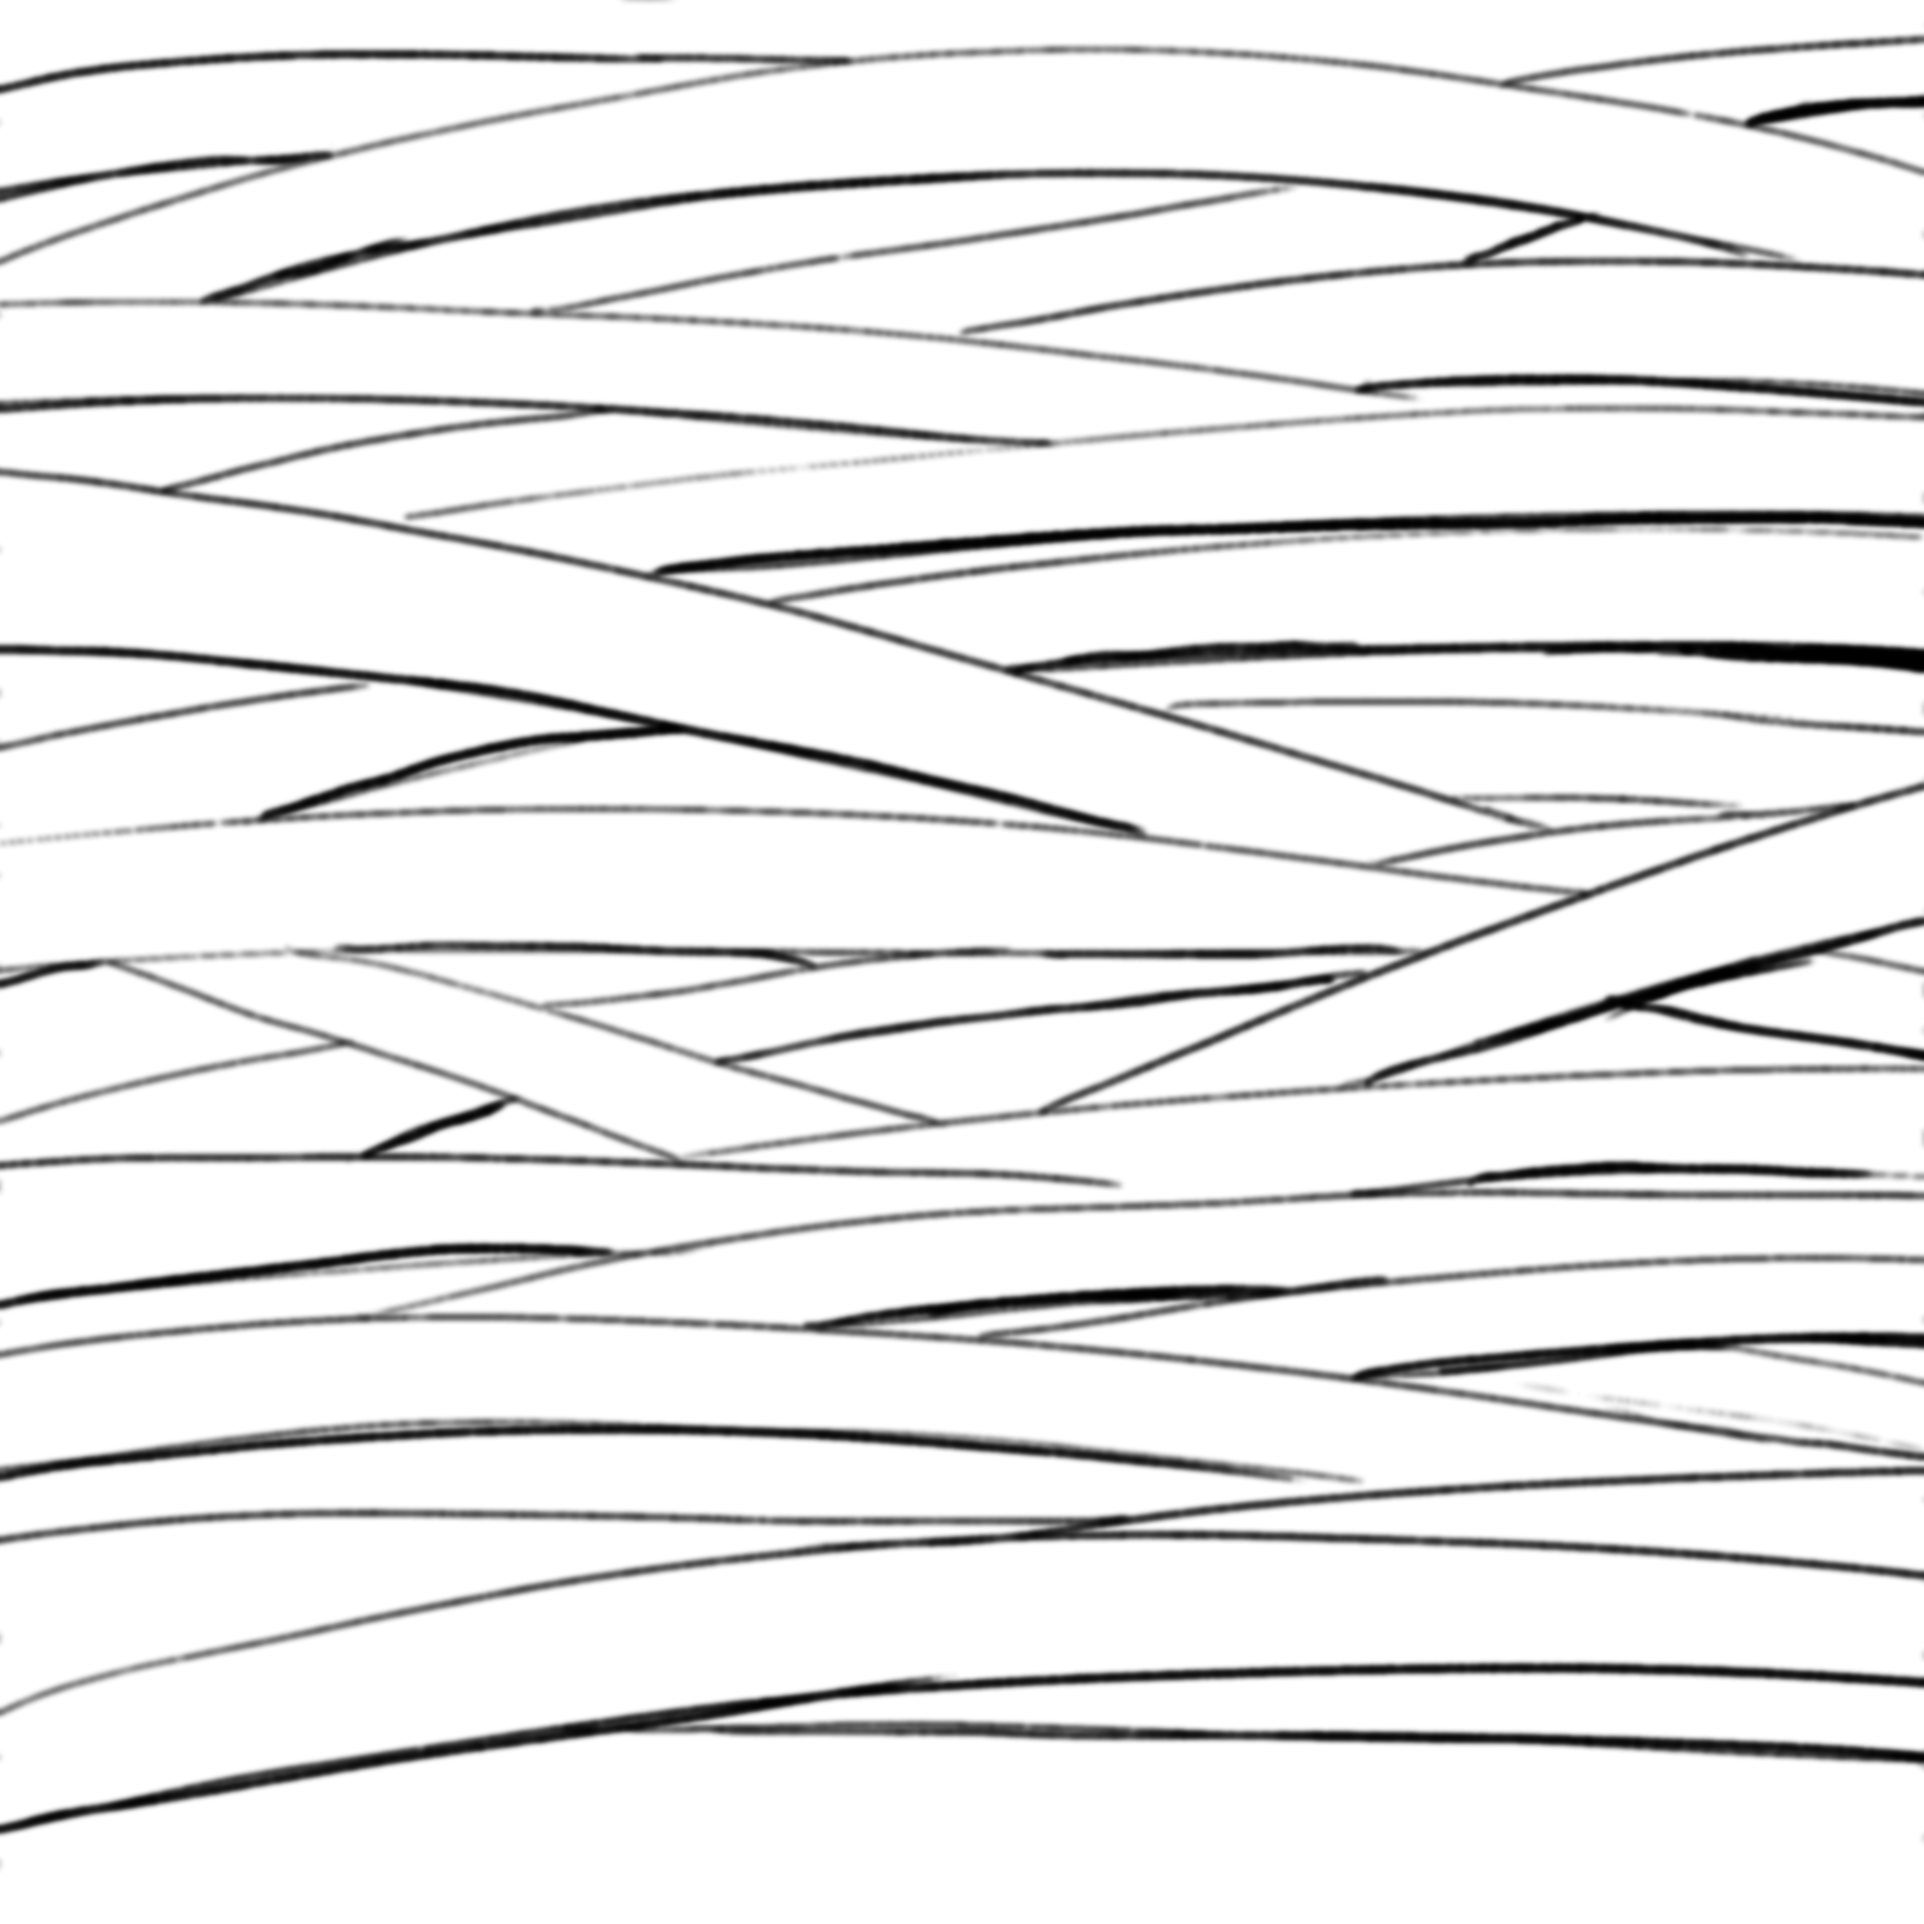
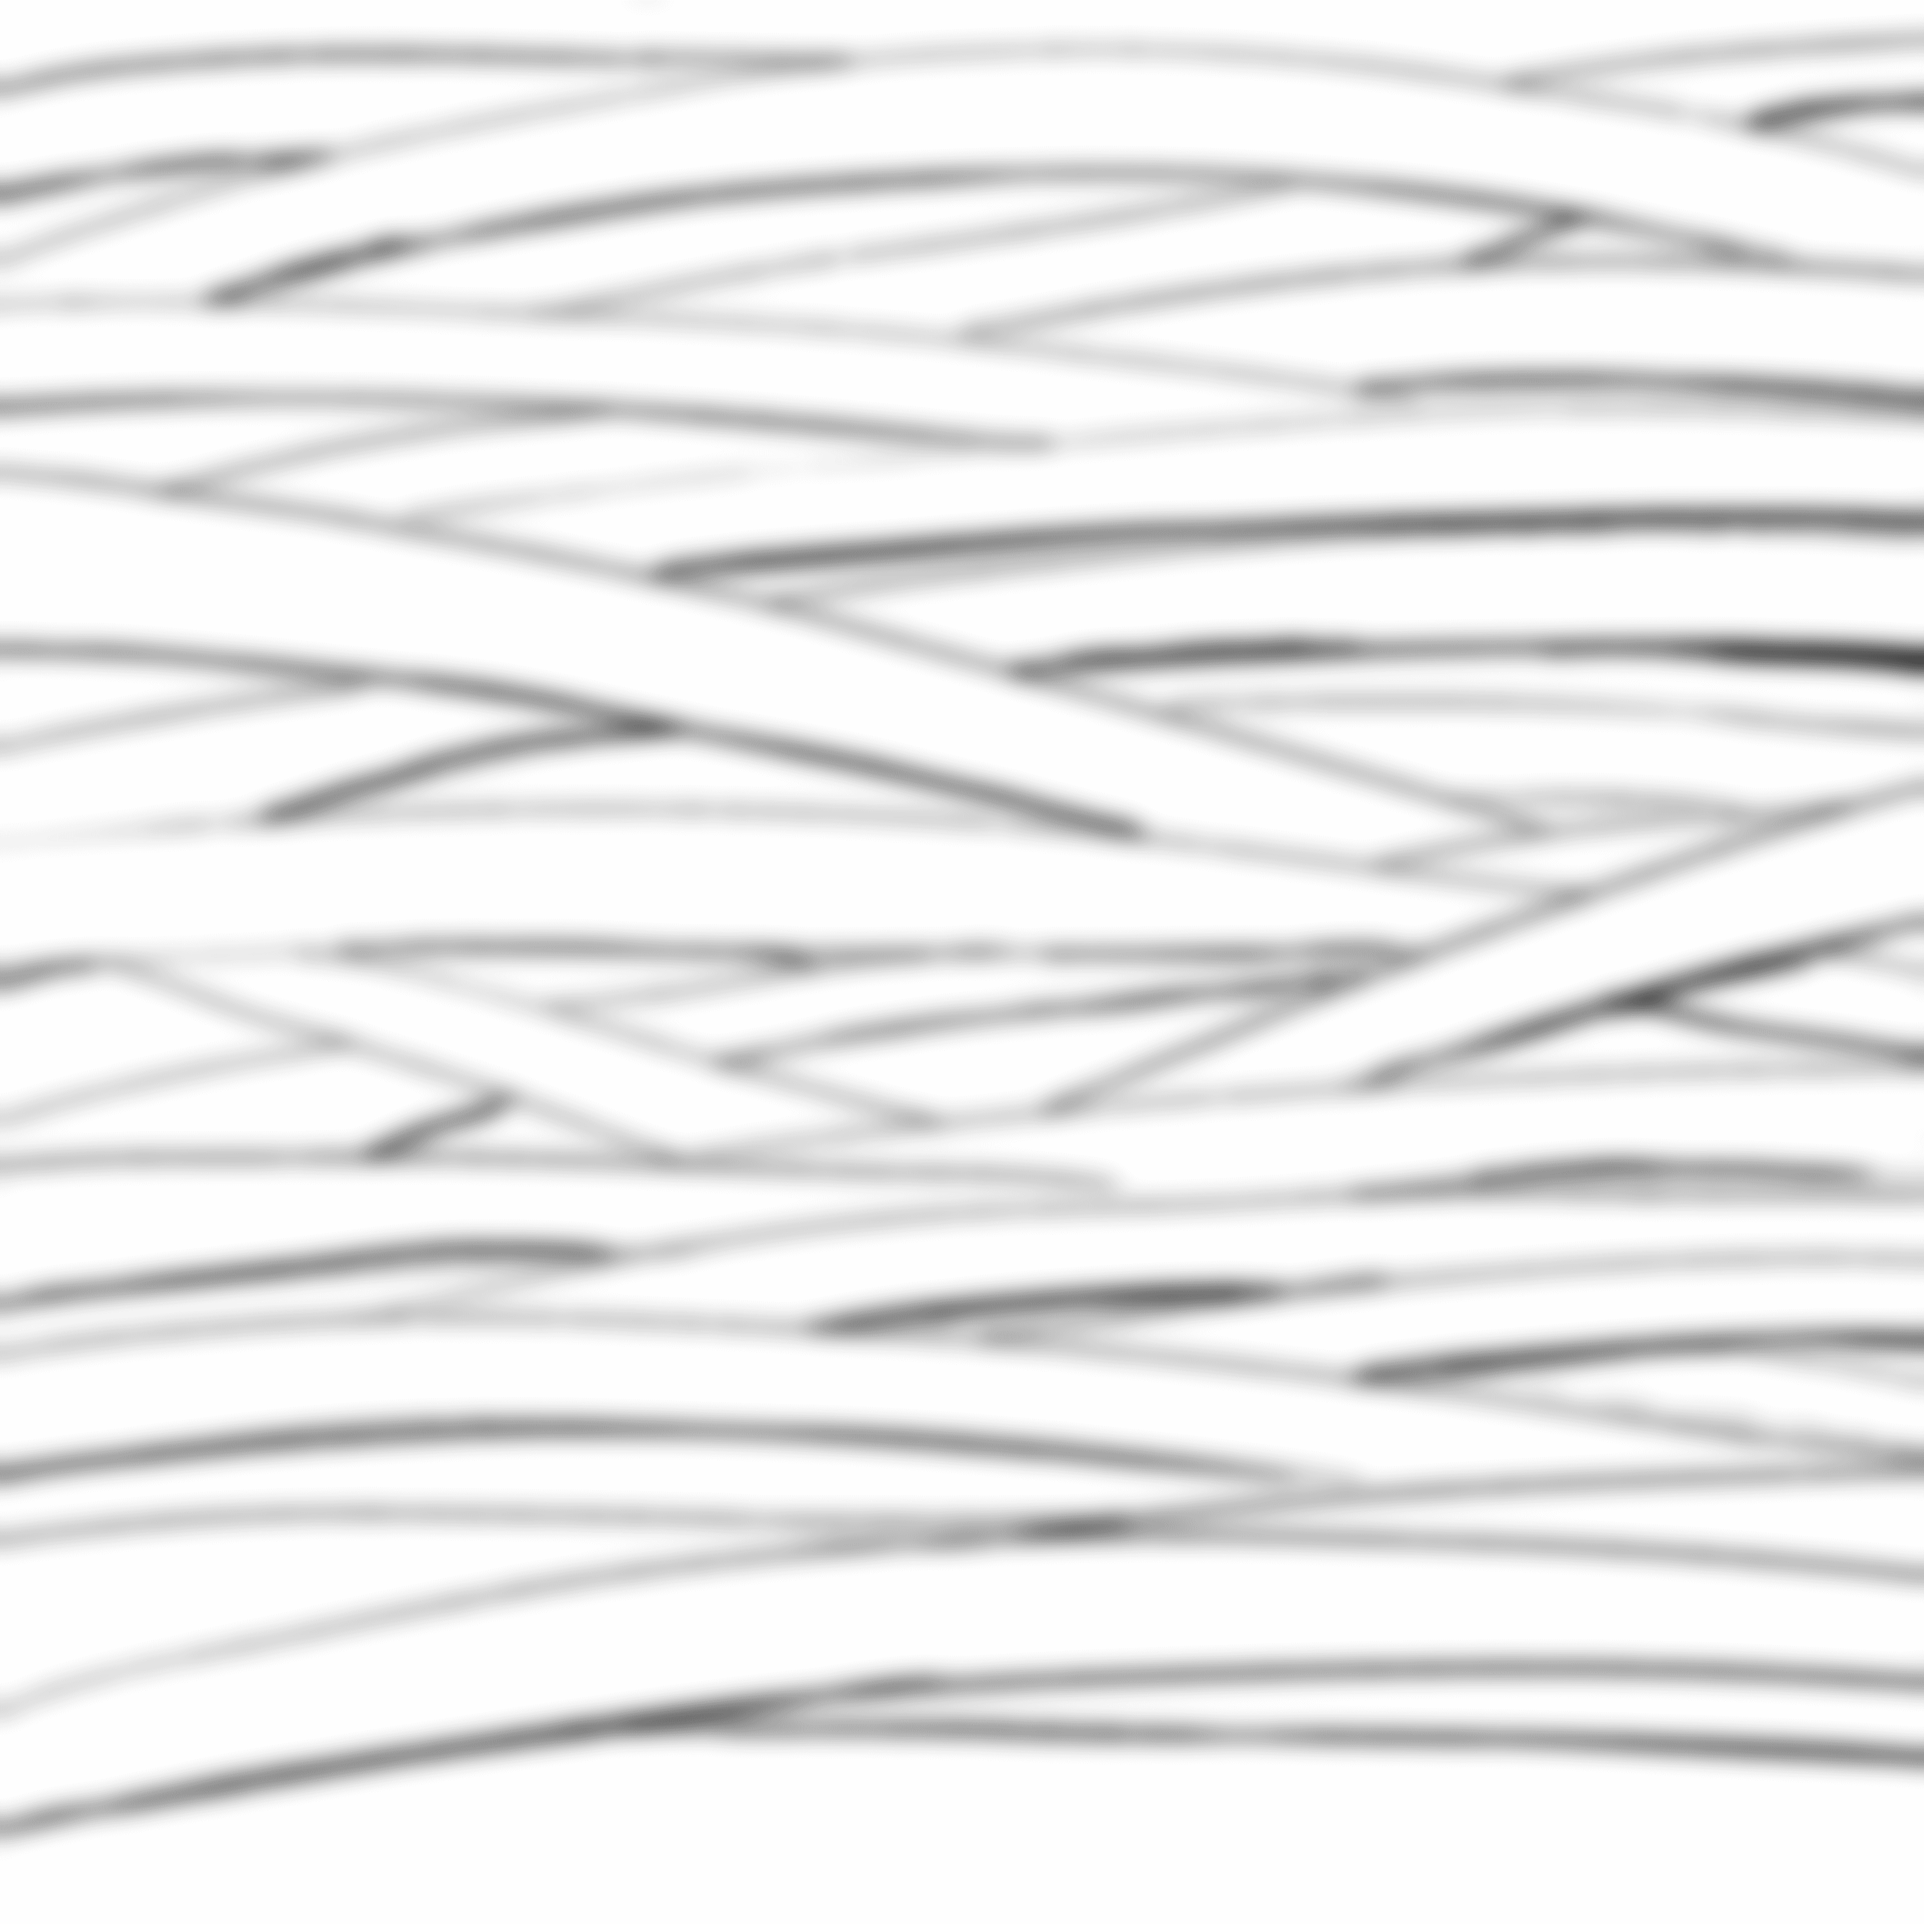
adjust bump map

Changed region(s): [[0.0, 0.0, 1.0, 0.9688], [0.0312, 0.8438, 0.1875, 0.875], [0.0, 0.875, 0.0312, 0.9062]]

diff --git a/src/main.js b/src/main.js
@@ -243,13 +243,13 @@ import hatURL from './hat.png';
 import hatBlurURL from './hatBlur.png';
 import hatDisplaceURL from './hatDisplace.png';
 const JohnHat = new THREE.Mesh(
-	new THREE.CylinderBufferGeometry(hatSize * 0.75, JohnWidth * 0.093, hatSize, 512, 512, true),
+	new THREE.CylinderBufferGeometry(hatSize * 0.75, JohnWidth * 0.093, hatSize, 256, 1024, true),
 	generateTurbanMat({
 		map: new THREE.TextureLoader().load(hatURL),
 		bumpMap: new THREE.TextureLoader().load(hatBlurURL),
-		bumpScale: 0.005,
-		//displacementMap: new THREE.TextureLoader().load(hatDisplaceURL),
-		//displacementScale: 0.15,
+		bumpScale: 0.01,
+		displacementMap: new THREE.TextureLoader().load(hatDisplaceURL),
+		displacementScale: 0.15,
 		color: 0xBBBBBB,
 		roughness: 1,
 		metalness: 0.1,
@@ -259,7 +259,7 @@ console.log(JohnHat)
 JohnHat.customDepthMaterial = generateTurbanMat({
 	depthPacking: THREE.RGBADepthPacking,
 	displacementMap: JohnHat.material.displacementMap,
-	displacementScale: 0.15,
+	displacementScale: JohnHat.material.displacementScale,
 }, true)
 JohnHat.geometry.rotateY(-Math.PI);
 JohnHat.position.y += hatSize * 0.5 + JohnHeight * 0.16;
